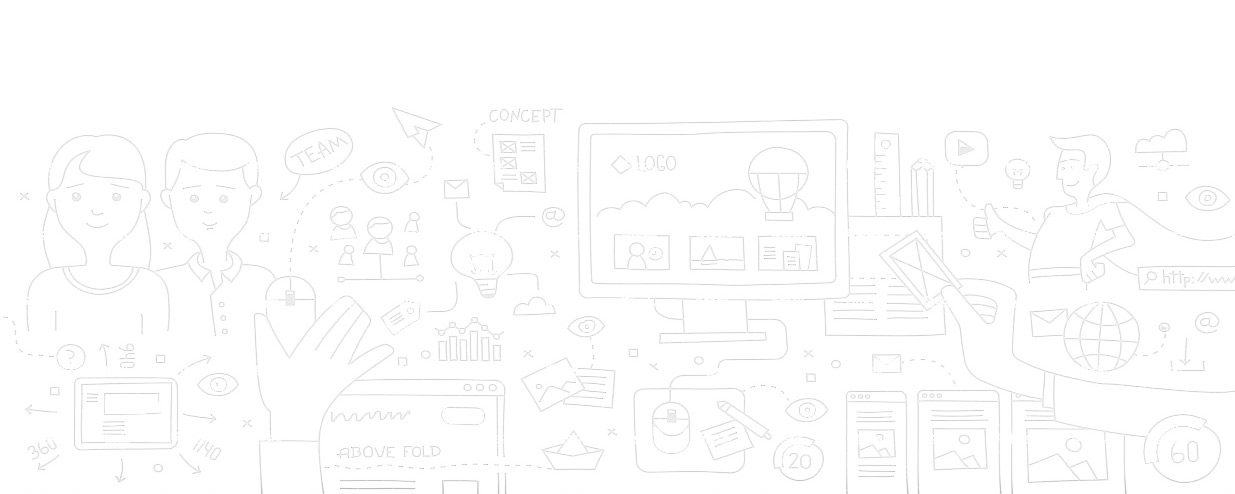
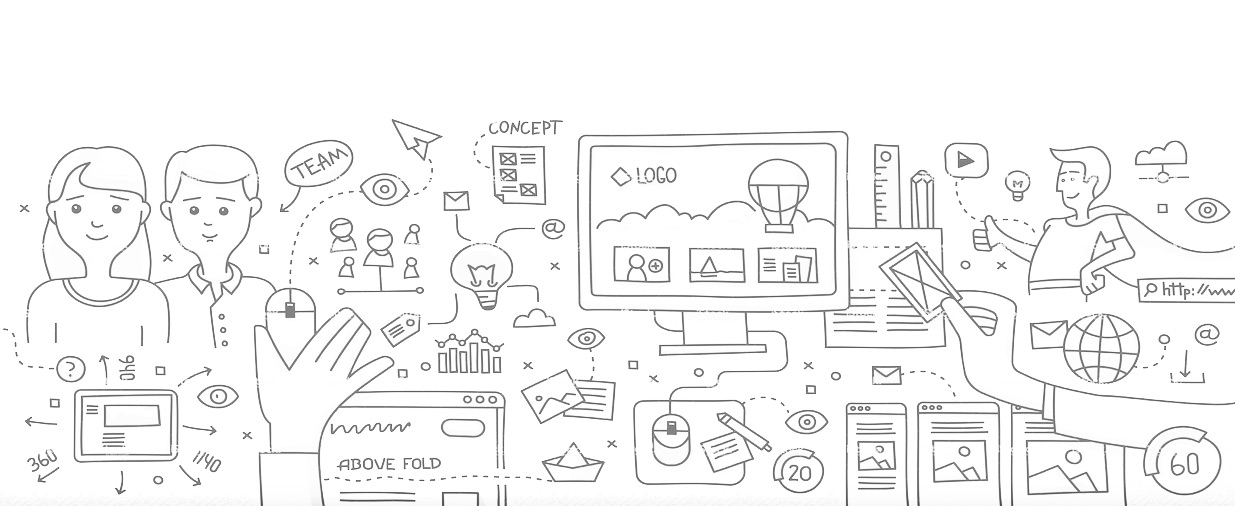
desarrollo web

diff --git a/html/css/main.css b/html/css/main.css
@@ -1598,7 +1598,6 @@ ul {
   font-size: 1em;
 }
 .item-vent {
-  margin-bottom: 3em;
   padding: 2em 3em;
   color: #000;
 }
@@ -1610,50 +1609,11 @@ ul {
   font-weight: 500;
   color: #44B6CE;
   display: inline-block;
-  margin-left: .5em;
+  margin-left: .2em;
 }
-.item-vent svg {
-  width: 2.5em;
-  display: inline-block;
-  fill: #44B6CE;
-  -webkit-animation: rotating 4s linear infinite;
-  -moz-animation: rotating 4s linear infinite;
-  -ms-animation: rotating 4s linear infinite;
-  -o-animation: rotating 4s linear infinite;
-  animation: rotating 4s linear infinite;
-}
-@-webkit-keyframes rotating {
-  /* Safari and Chrome */
-  from {
-    -ms-transform: rotate(0deg);
-    -moz-transform: rotate(0deg);
-    -webkit-transform: rotate(0deg);
-    -o-transform: rotate(0deg);
-    transform: rotate(0deg);
-  }
-  to {
-    -ms-transform: rotate(360deg);
-    -moz-transform: rotate(360deg);
-    -webkit-transform: rotate(360deg);
-    -o-transform: rotate(360deg);
-    transform: rotate(360deg);
-  }
-}
-@keyframes rotating {
-  from {
-    -ms-transform: rotate(0deg);
-    -moz-transform: rotate(0deg);
-    -webkit-transform: rotate(0deg);
-    -o-transform: rotate(0deg);
-    transform: rotate(0deg);
-  }
-  to {
-    -ms-transform: rotate(360deg);
-    -moz-transform: rotate(360deg);
-    -webkit-transform: rotate(360deg);
-    -o-transform: rotate(360deg);
-    transform: rotate(360deg);
-  }
+.item-vent i {
+  color: #44B6CE;
+  font-size: 2.5em;
 }
 .sec-vent {
   position: relative;
@@ -2504,12 +2464,30 @@ input[type="checkbox"] {
   -ms-animation: quoteshift 10s 0s infinite linear;
   animation: quoteshift 10s 6s infinite linear;
 }
-/*#rotate span:nth-child(5) {
+#rotate span:nth-child(5) {
   -webkit-animation: quoteshift 10s 8s infinite linear;
-     -moz-animation: quoteshift 10s 0s infinite linear;
-     -ms-animation: quoteshift 10s 0s infinite linear;
-          animation: quoteshift 10s 8s infinite linear;
-}*/
+  -moz-animation: quoteshift 10s 0s infinite linear;
+  -ms-animation: quoteshift 10s 0s infinite linear;
+  animation: quoteshift 10s 8s infinite linear;
+}
+#rotate span:nth-child(6) {
+  -webkit-animation: quoteshift 10s 12s infinite linear;
+  -moz-animation: quoteshift 10s 0s infinite linear;
+  -ms-animation: quoteshift 10s 0s infinite linear;
+  animation: quoteshift 10s 12s infinite linear;
+}
+#rotate span:nth-child(7) {
+  -webkit-animation: quoteshift 10s 14s infinite linear;
+  -moz-animation: quoteshift 10s 0s infinite linear;
+  -ms-animation: quoteshift 10s 0s infinite linear;
+  animation: quoteshift 10s 14s infinite linear;
+}
+#rotate span:nth-child(8) {
+  -webkit-animation: quoteshift 10s 16s infinite linear;
+  -moz-animation: quoteshift 10s 0s infinite linear;
+  -ms-animation: quoteshift 10s 0s infinite linear;
+  animation: quoteshift 10s 16s infinite linear;
+}
 @-webkit-keyframes quoteshift {
   0% {
     opacity: 0;

diff --git a/html/css/pages.less b/html/css/pages.less
@@ -112,11 +112,7 @@
 	}
 }
 .item-vent{
-	//box-shadow: 0 2px 5px 0 rgba(0,0,0,0.16),0 2px 10px 0 rgba(0,0,0,0.12);
-	margin-bottom: 3em;
 	padding: 2em 3em;
-	//background-image: url('../img/backven.png');
-	//background: #fff;
 	color: #000;
 	p{
 		margin: 0;
@@ -126,54 +122,15 @@
 		font-weight: 500;
 		color: @celeste;
 		display: inline-block;
-		margin-left: .5em;
+		margin-left: .2em;
 	}
-	svg{
-		width: 2.5em;
-		display: inline-block;
-		fill: @celeste;
-  -webkit-animation: rotating 4s linear infinite;
-  -moz-animation: rotating 4s linear infinite;
-  -ms-animation: rotating 4s linear infinite;
-  -o-animation: rotating 4s linear infinite;
-  animation: rotating 4s linear infinite;		
+	i{
+		color: @celeste;
+		font-size: 2.5em;
 	}
-}
-@-webkit-keyframes rotating /* Safari and Chrome */ {
-  from {
-    -ms-transform: rotate(0deg);
-    -moz-transform: rotate(0deg);
-    -webkit-transform: rotate(0deg);
-    -o-transform: rotate(0deg);
-    transform: rotate(0deg);
-  }
-  to {
-    -ms-transform: rotate(360deg);
-    -moz-transform: rotate(360deg);
-    -webkit-transform: rotate(360deg);
-    -o-transform: rotate(360deg);
-    transform: rotate(360deg);
-  }
-}
-@keyframes rotating {
-  from {
-    -ms-transform: rotate(0deg);
-    -moz-transform: rotate(0deg);
-    -webkit-transform: rotate(0deg);
-    -o-transform: rotate(0deg);
-    transform: rotate(0deg);
-  }
-  to {
-    -ms-transform: rotate(360deg);
-    -moz-transform: rotate(360deg);
-    -webkit-transform: rotate(360deg);
-    -o-transform: rotate(360deg);
-    transform: rotate(360deg);
-  }
 }
 .sec-vent{
 	position: relative;
-	//background: @verde;
 	background-image: url('../img/backgray.jpg');
 	background-attachment: fixed;
 }

diff --git a/html/css/rotating.less b/html/css/rotating.less
@@ -35,13 +35,30 @@
      -ms-animation: quoteshift 10s 0s infinite linear;
           animation: quoteshift 10s 6s infinite linear;
 }
-/*#rotate span:nth-child(5) {
+#rotate span:nth-child(5) {
   -webkit-animation: quoteshift 10s 8s infinite linear;
      -moz-animation: quoteshift 10s 0s infinite linear;
      -ms-animation: quoteshift 10s 0s infinite linear;
           animation: quoteshift 10s 8s infinite linear;
-}*/
-
+}
+#rotate span:nth-child(6) {
+  -webkit-animation: quoteshift 10s 12s infinite linear;
+     -moz-animation: quoteshift 10s 0s infinite linear;
+     -ms-animation: quoteshift 10s 0s infinite linear;
+          animation: quoteshift 10s 12s infinite linear;
+}
+#rotate span:nth-child(7) {
+  -webkit-animation: quoteshift 10s 14s infinite linear;
+     -moz-animation: quoteshift 10s 0s infinite linear;
+     -ms-animation: quoteshift 10s 0s infinite linear;
+          animation: quoteshift 10s 14s infinite linear;
+}
+#rotate span:nth-child(8) {
+  -webkit-animation: quoteshift 10s 16s infinite linear;
+     -moz-animation: quoteshift 10s 0s infinite linear;
+     -ms-animation: quoteshift 10s 0s infinite linear;
+          animation: quoteshift 10s 16s infinite linear;
+}
 @-webkit-keyframes quoteshift {
   0% {
     opacity: 0;

diff --git a/html/footer.html b/html/footer.html
@@ -86,14 +86,7 @@
 <script type="text/javascript">
 
 $(function(){
-    $('#formWeb').validate({
-        rules :{              
-            telefono : {
-                required : true,
-                digits: true
-            },
-        },
-   }); 
+    $('#formWeb').validate(); 
    $('#formReg').validate();   
 });
 

diff --git a/html/desarrollo-web.php b/html/desarrollo-web.php
@@ -1,6 +1,6 @@
 <?php include('header.html') ?>
 
-<section class="row ban-inicio" style="background-image: url('img/desweb.jpg');">
+<section class="row ban-inicio" style="background-image: url('img/website.png');">
     <div class="col-container">
         <!--h1 class="wow bounceInDown" data-wow-delay=".2s">Desarrollo web</h1-->
         <svg xmlns="http://www.w3.org/2000/svg" version="1.1" xmlns:xlink="http://www.w3.org/1999/xlink" width="100%" height="100%">
@@ -141,35 +141,35 @@
             </div>
             <div class="small-12 medium-6 large-4 columns">
                 <div class="item-vent" data-wow-delay=".5s">
-                    <svg version="1.1" xmlns="http://www.w3.org/2000/svg" xmlns:xlink="http://www.w3.org/1999/xlink" viewBox="0 0 512 512"><g id="icomoon-ignore"></g><path d="M256 0c-139.374 0-252.729 111.381-255.924 249.987 2.96-120.932 94.916-217.987 207.924-217.987 114.875 0 208 100.288 208 224 0 26.51 21.49 48 48 48s48-21.49 48-48c0-141.385-114.615-256-256-256zM256 512c139.374 0 252.729-111.381 255.924-249.987-2.96 120.932-94.916 217.987-207.924 217.987-114.875 0-208-100.288-208-224 0-26.51-21.49-48-48-48s-48 21.49-48 48c0 141.385 114.615 256 256 256z"></path></svg>
+                    <i class="fa fa-code" aria-hidden="true"></i>
                     <h3>Desarrollo a medida</h3>
                     <p>Desarrollo según tus requerimientos, con un diseño creativo y <b>arquitectura de información según el tipo de usuario.</b></p>
                 </div>
             </div>
             <div class="small-12 medium-6 large-4 columns">
                 <div class="item-vent" data-wow-delay=".5s">
-                    <svg version="1.1" xmlns="http://www.w3.org/2000/svg" xmlns:xlink="http://www.w3.org/1999/xlink" viewBox="0 0 512 512"><g id="icomoon-ignore"></g><path d="M256 0c-139.374 0-252.729 111.381-255.924 249.987 2.96-120.932 94.916-217.987 207.924-217.987 114.875 0 208 100.288 208 224 0 26.51 21.49 48 48 48s48-21.49 48-48c0-141.385-114.615-256-256-256zM256 512c139.374 0 252.729-111.381 255.924-249.987-2.96 120.932-94.916 217.987-207.924 217.987-114.875 0-208-100.288-208-224 0-26.51-21.49-48-48-48s-48 21.49-48 48c0 141.385 114.615 256 256 256z"></path></svg>
-                    <h3>Páginas administrables</h3>
+                   <i class="fa fa-user" aria-hidden="true"></i>
+                   <h3>Páginas administrables</h3>
                     <p>Todas nuestras páginas cuentan con un administrador de contenidos fácil de usar, para que <b>tu mismo administres la información.</b></p>
                 </div>
             </div>
             <div class="small-12 medium-6 large-4 columns">
                 <div class="item-vent" data-wow-delay=".5s">
-                    <svg version="1.1" xmlns="http://www.w3.org/2000/svg" xmlns:xlink="http://www.w3.org/1999/xlink" viewBox="0 0 512 512"><g id="icomoon-ignore"></g><path d="M256 0c-139.374 0-252.729 111.381-255.924 249.987 2.96-120.932 94.916-217.987 207.924-217.987 114.875 0 208 100.288 208 224 0 26.51 21.49 48 48 48s48-21.49 48-48c0-141.385-114.615-256-256-256zM256 512c139.374 0 252.729-111.381 255.924-249.987-2.96 120.932-94.916 217.987-207.924 217.987-114.875 0-208-100.288-208-224 0-26.51-21.49-48-48-48s-48 21.49-48 48c0 141.385 114.615 256 256 256z"></path></svg>
+                    <i class="fa fa-search" aria-hidden="true"></i>
                     <h3>Optimizado para SEO</h3>
                     <p>Desarrollamos los códigos con estándares de calidad los cuales ayudan al <b>posicionamiento</b> de tu página en los buscadores.</p>
                 </div>
             </div>
             <div class="small-12 medium-6 large-4 columns">
                 <div class="item-vent" data-wow-delay=".5s">
-                    <svg version="1.1" xmlns="http://www.w3.org/2000/svg" xmlns:xlink="http://www.w3.org/1999/xlink" viewBox="0 0 512 512"><g id="icomoon-ignore"></g><path d="M256 0c-139.374 0-252.729 111.381-255.924 249.987 2.96-120.932 94.916-217.987 207.924-217.987 114.875 0 208 100.288 208 224 0 26.51 21.49 48 48 48s48-21.49 48-48c0-141.385-114.615-256-256-256zM256 512c139.374 0 252.729-111.381 255.924-249.987-2.96 120.932-94.916 217.987-207.924 217.987-114.875 0-208-100.288-208-224 0-26.51-21.49-48-48-48s-48 21.49-48 48c0 141.385 114.615 256 256 256z"></path></svg>
+                    <i class="fa fa-arrows-h" aria-hidden="true"></i>
                     <h3>Versión responsive</h3>
                     <p>Tu página será <b>adaptable a dispositivos móviles</b>, es decir también podrá ser vista en tablets y celulares. </p>
                 </div>
             </div>
             <div class="small-12 medium-6 large-4 columns">
                 <div class="item-vent" data-wow-delay=".5s">
-                    <svg version="1.1" xmlns="http://www.w3.org/2000/svg" xmlns:xlink="http://www.w3.org/1999/xlink" viewBox="0 0 512 512"><g id="icomoon-ignore"></g><path d="M256 0c-139.374 0-252.729 111.381-255.924 249.987 2.96-120.932 94.916-217.987 207.924-217.987 114.875 0 208 100.288 208 224 0 26.51 21.49 48 48 48s48-21.49 48-48c0-141.385-114.615-256-256-256zM256 512c139.374 0 252.729-111.381 255.924-249.987-2.96 120.932-94.916 217.987-207.924 217.987-114.875 0-208-100.288-208-224 0-26.51-21.49-48-48-48s-48 21.49-48 48c0 141.385 114.615 256 256 256z"></path></svg>
+                    <i class="fa fa-info-circle" aria-hidden="true"></i>
                     <h3>Soporte por un año</h3>
                     <p>Te damos un año de <b>soporte gratuito</b>, a cualquier consulta o problema que tengas en cuanto al uso del administrador.</p>
                 </div>
